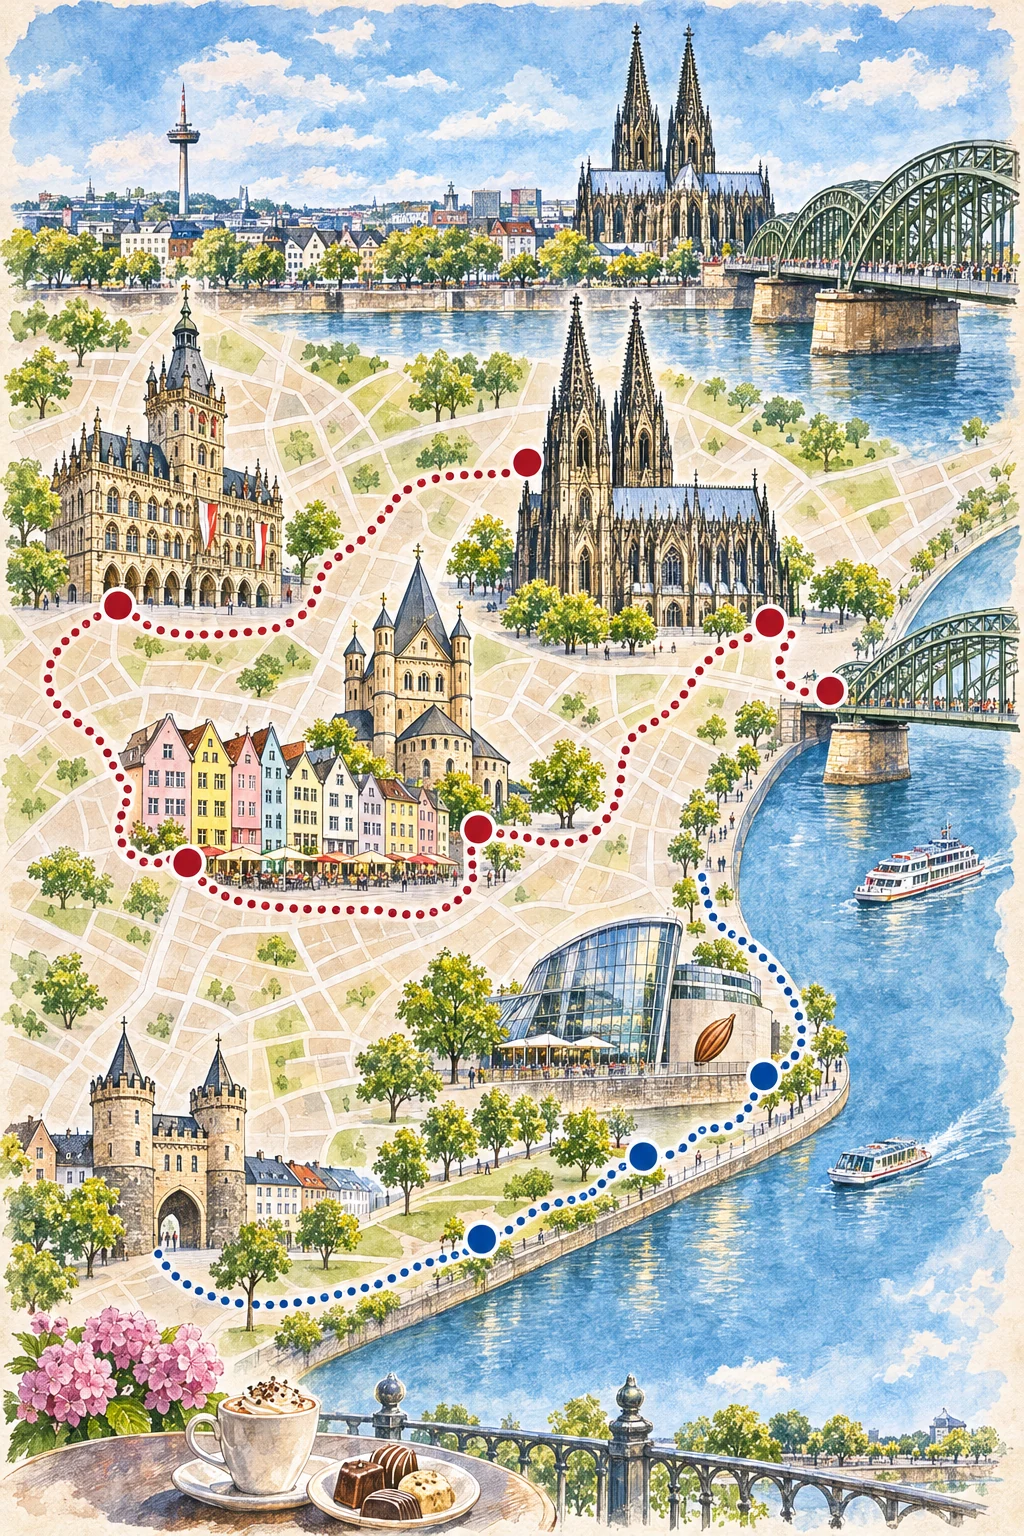
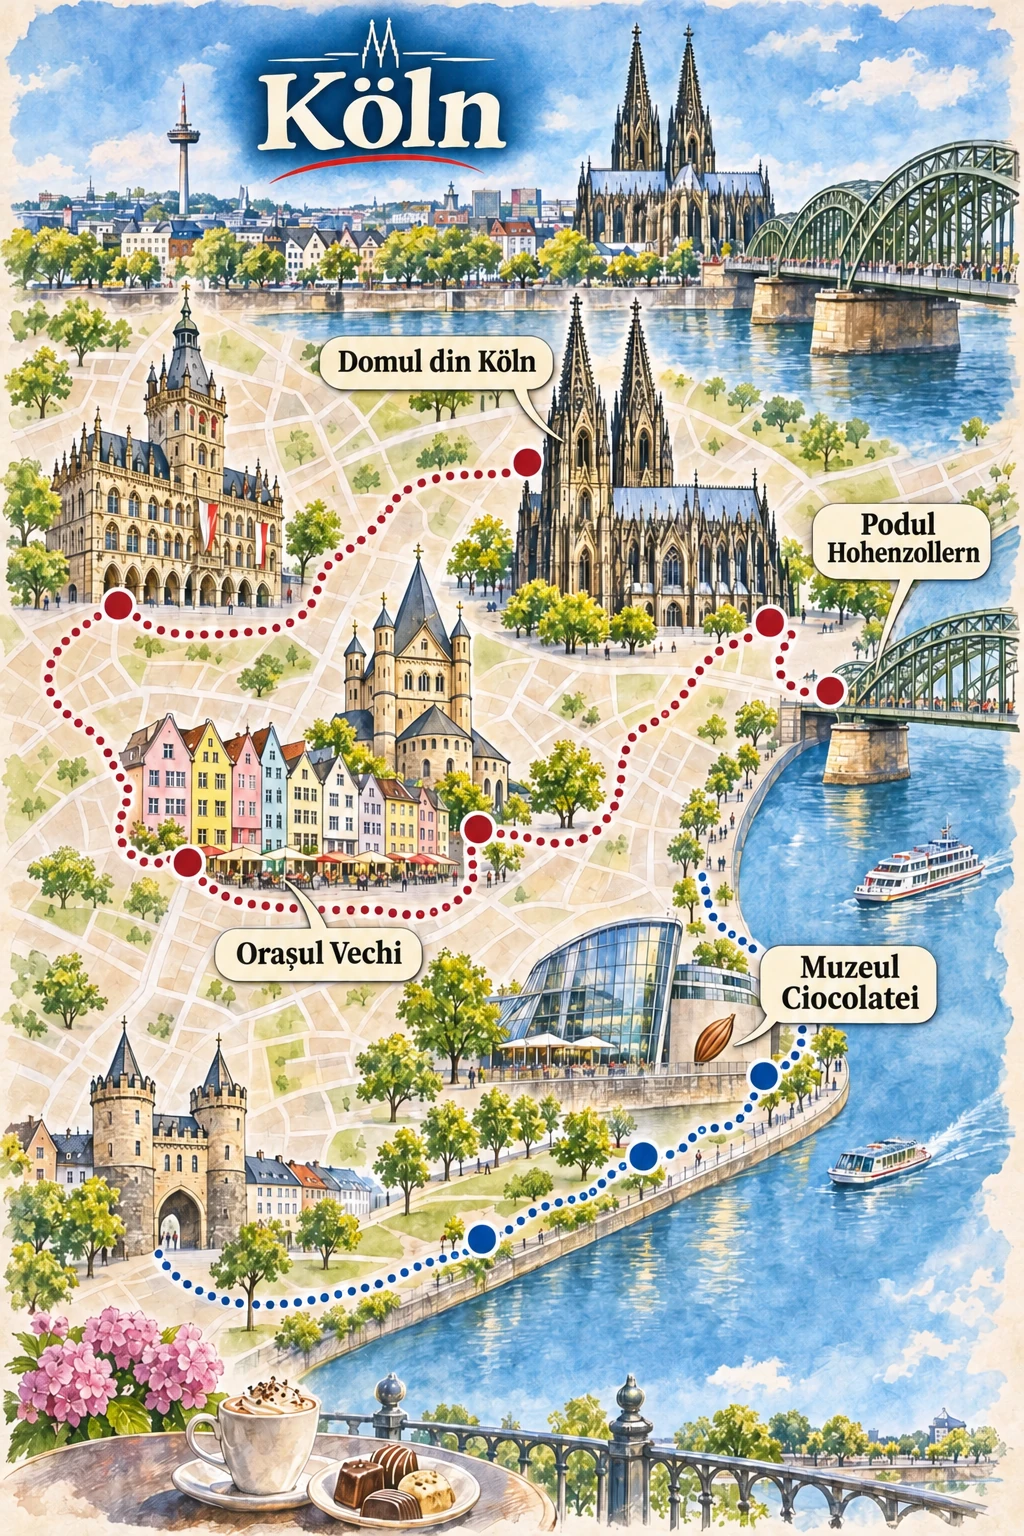
Label Bruges Cologne and Dublin maps

Changed region(s): [[0.0, 0.0, 1.0, 1.0]]

diff --git a/ILUSTRATII.md b/ILUSTRATII.md
@@ -24,9 +24,12 @@ Se adaugă numele obiectivelor direct pe hărțile existente, în stilul aprobat
 - Varșovia
 - Copenhaga
 - Edinburgh
+- Bruges
+- Köln
+- Dublin
 
 Harta originală pentru Praga avea deja etichete. Celelalte orașe din `assets/guides-prague-style/` necesită în continuare verificare și prelucrare. Actualizează această listă în același commit cu fiecare lot nou.
 
-Ilustrațiile fără etichete sunt păstrate în istoricul Git: pentru Roma și Barcelona folosește fișierul de la commitul `14f016a`, iar pentru Paris, Londra, Lisabona, Berlin și Bruxelles de la `508e691`. Pentru Budapesta, Atena, Veneția, Amsterdam, Viena, Milano, Madrid, Bologna, Lyon, Porto, Varșovia, Copenhaga și Edinburgh se pot folosi originalele de la `48efdd5`. Copii locale sunt în `/workspace/guide-batch/original-illustrations` când acel director este disponibil. Păstrează imaginile originale pentru quiz.
+Ilustrațiile fără etichete sunt păstrate în istoricul Git: pentru Roma și Barcelona folosește fișierul de la commitul `14f016a`, iar pentru Paris, Londra, Lisabona, Berlin și Bruxelles de la `508e691`. Pentru Budapesta, Atena, Veneția, Amsterdam, Viena, Milano, Madrid, Bologna, Lyon, Porto, Varșovia, Copenhaga, Edinburgh, Bruges, Köln și Dublin se pot folosi originalele de la `48efdd5`. Copii locale sunt în `/workspace/guide-batch/original-illustrations` când acel director este disponibil. Păstrează imaginile originale pentru quiz.
 
 Nu modifica funcționalitatea de căutare a zborurilor în cadrul acestei activități.
